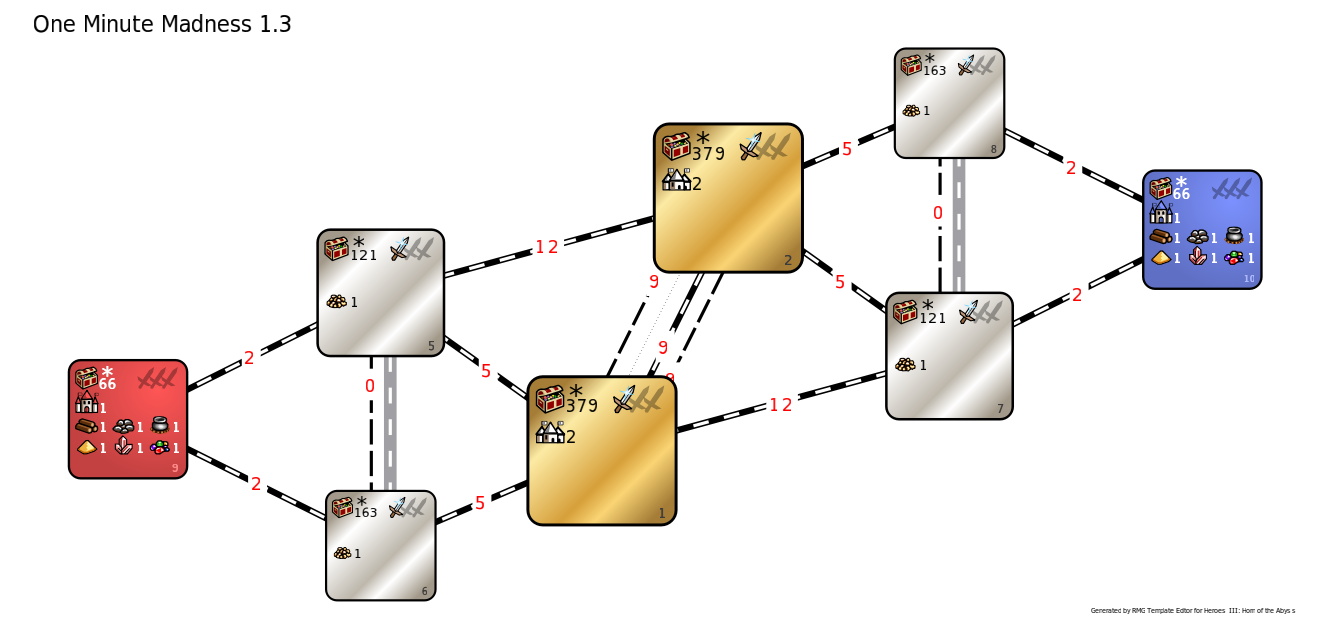
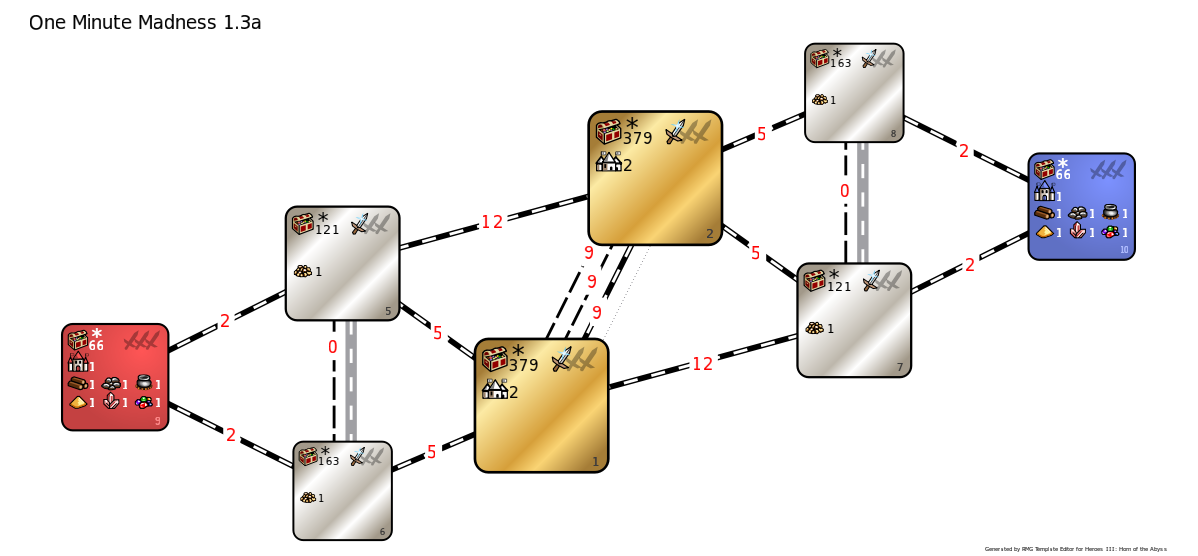
1mm 1.3a

diff --git a/templates/one_minute_madness/changelog.md b/templates/one_minute_madness/changelog.md
@@ -7,6 +7,12 @@ title: HoMM3 Template Vault | One Minute Madness changelog
 
 ## One Minute Madness - Changelog
 
+### Version 1.3a
+
+[Download](./One%20Minute%20Madness%201.3a.zip)
+
+* Fixed the occasional issue where the green monolith color was taken by one of the offroad connections between zones 1 and 2.
+
 ### Version 1.3
 
 [Download](./One%20Minute%20Madness%201.3.zip)

diff --git a/templates/one_minute_madness/index.md b/templates/one_minute_madness/index.md
@@ -6,7 +6,7 @@ title: One Minute Madness
 
 ## One Minute Madness
 
-[Download One Minute Madness 1.3](./One%20Minute%20Madness%201.3.zip)
+[Download One Minute Madness 1.3a](./One%20Minute%20Madness%201.3a.zip)
 
 [Changelog](changelog.html)
 
